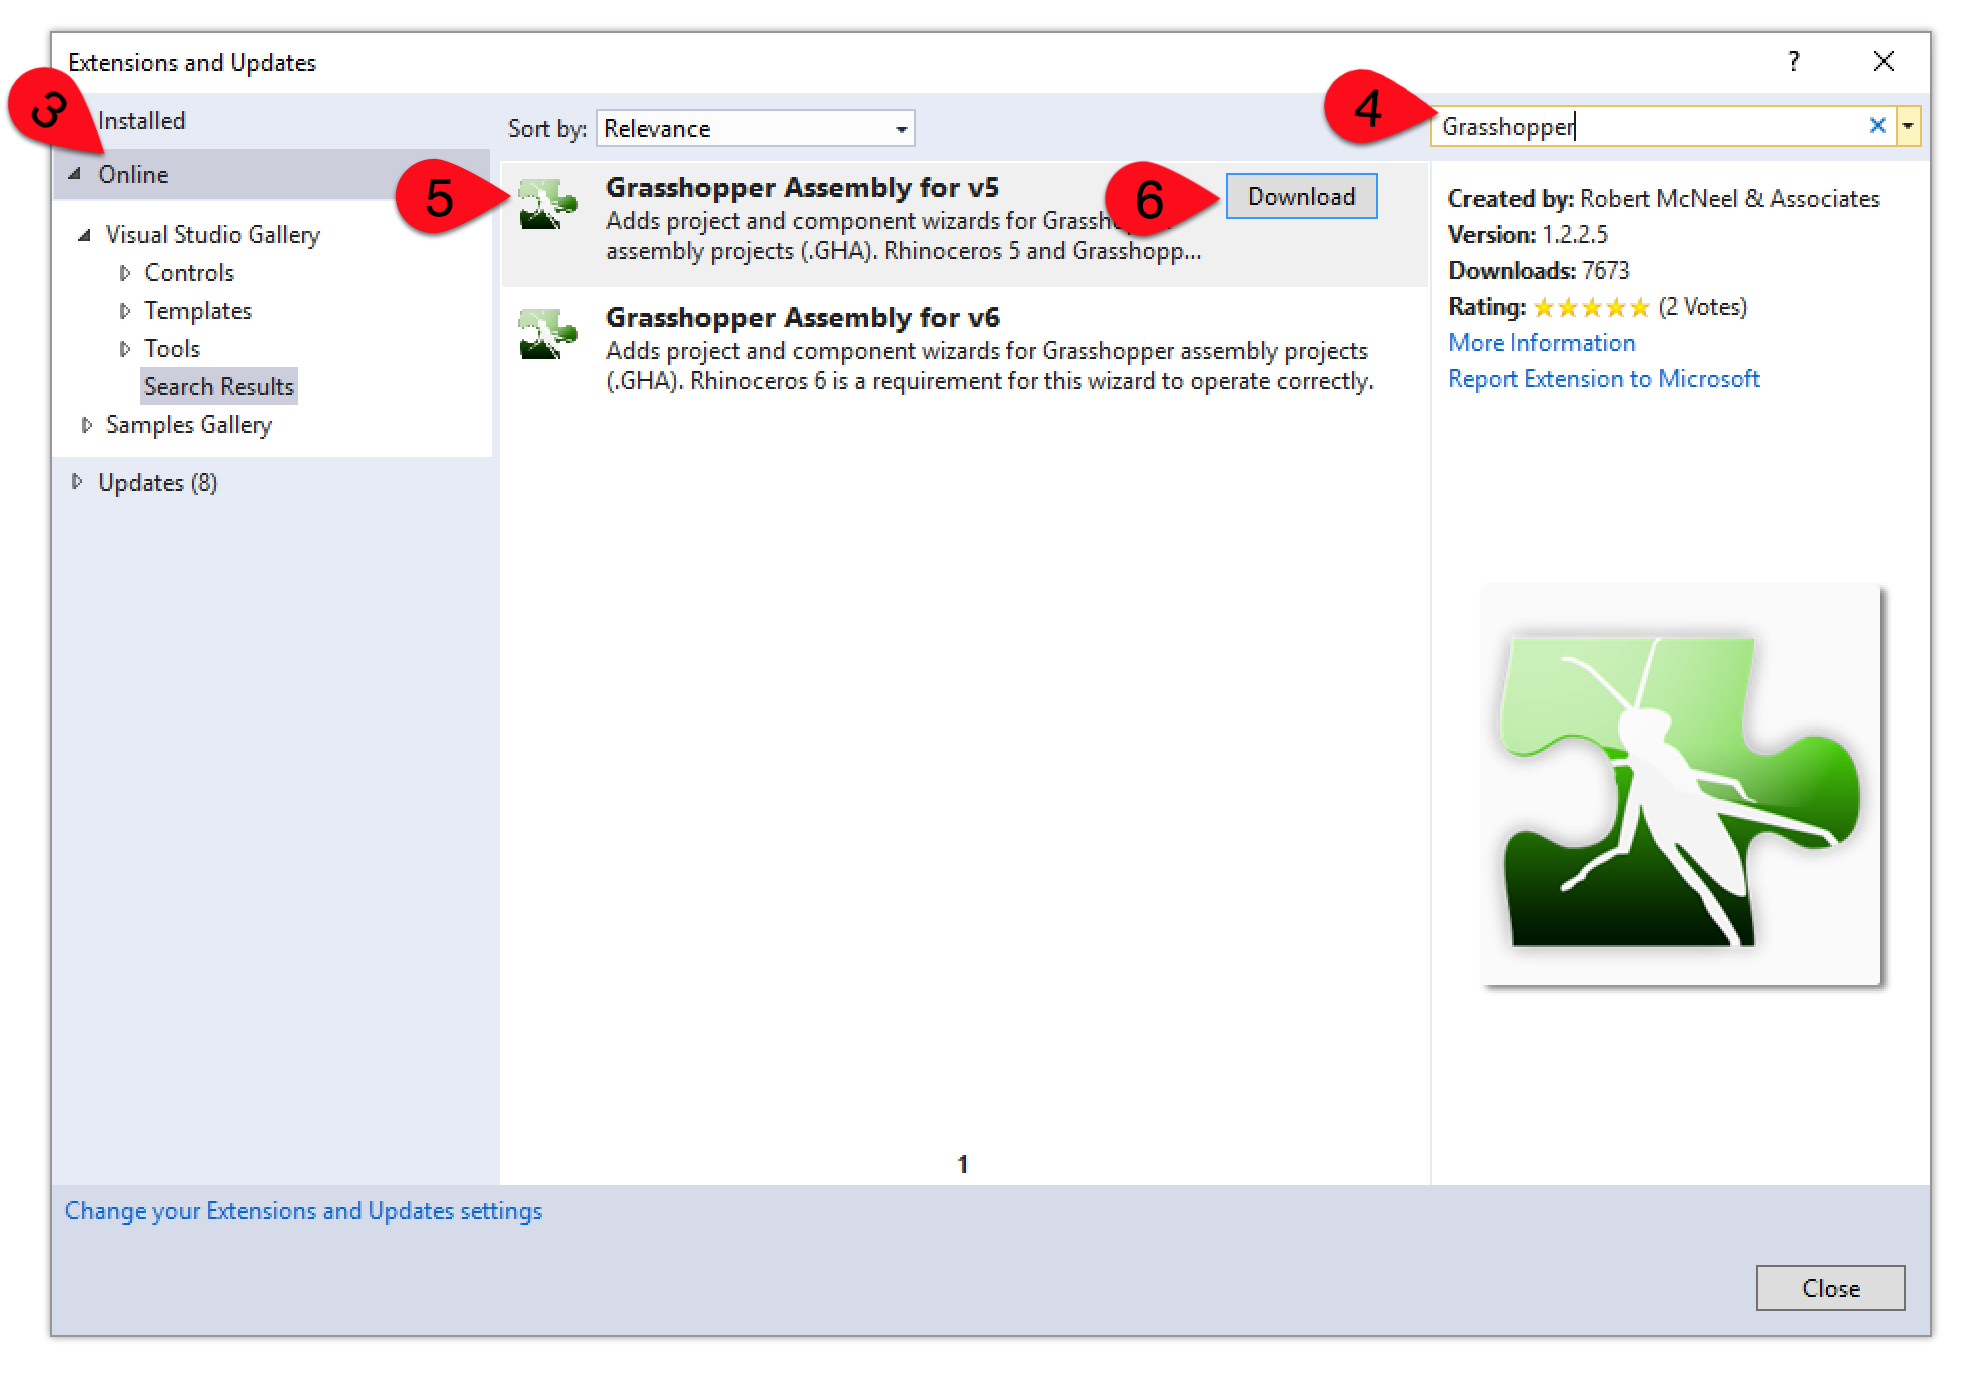
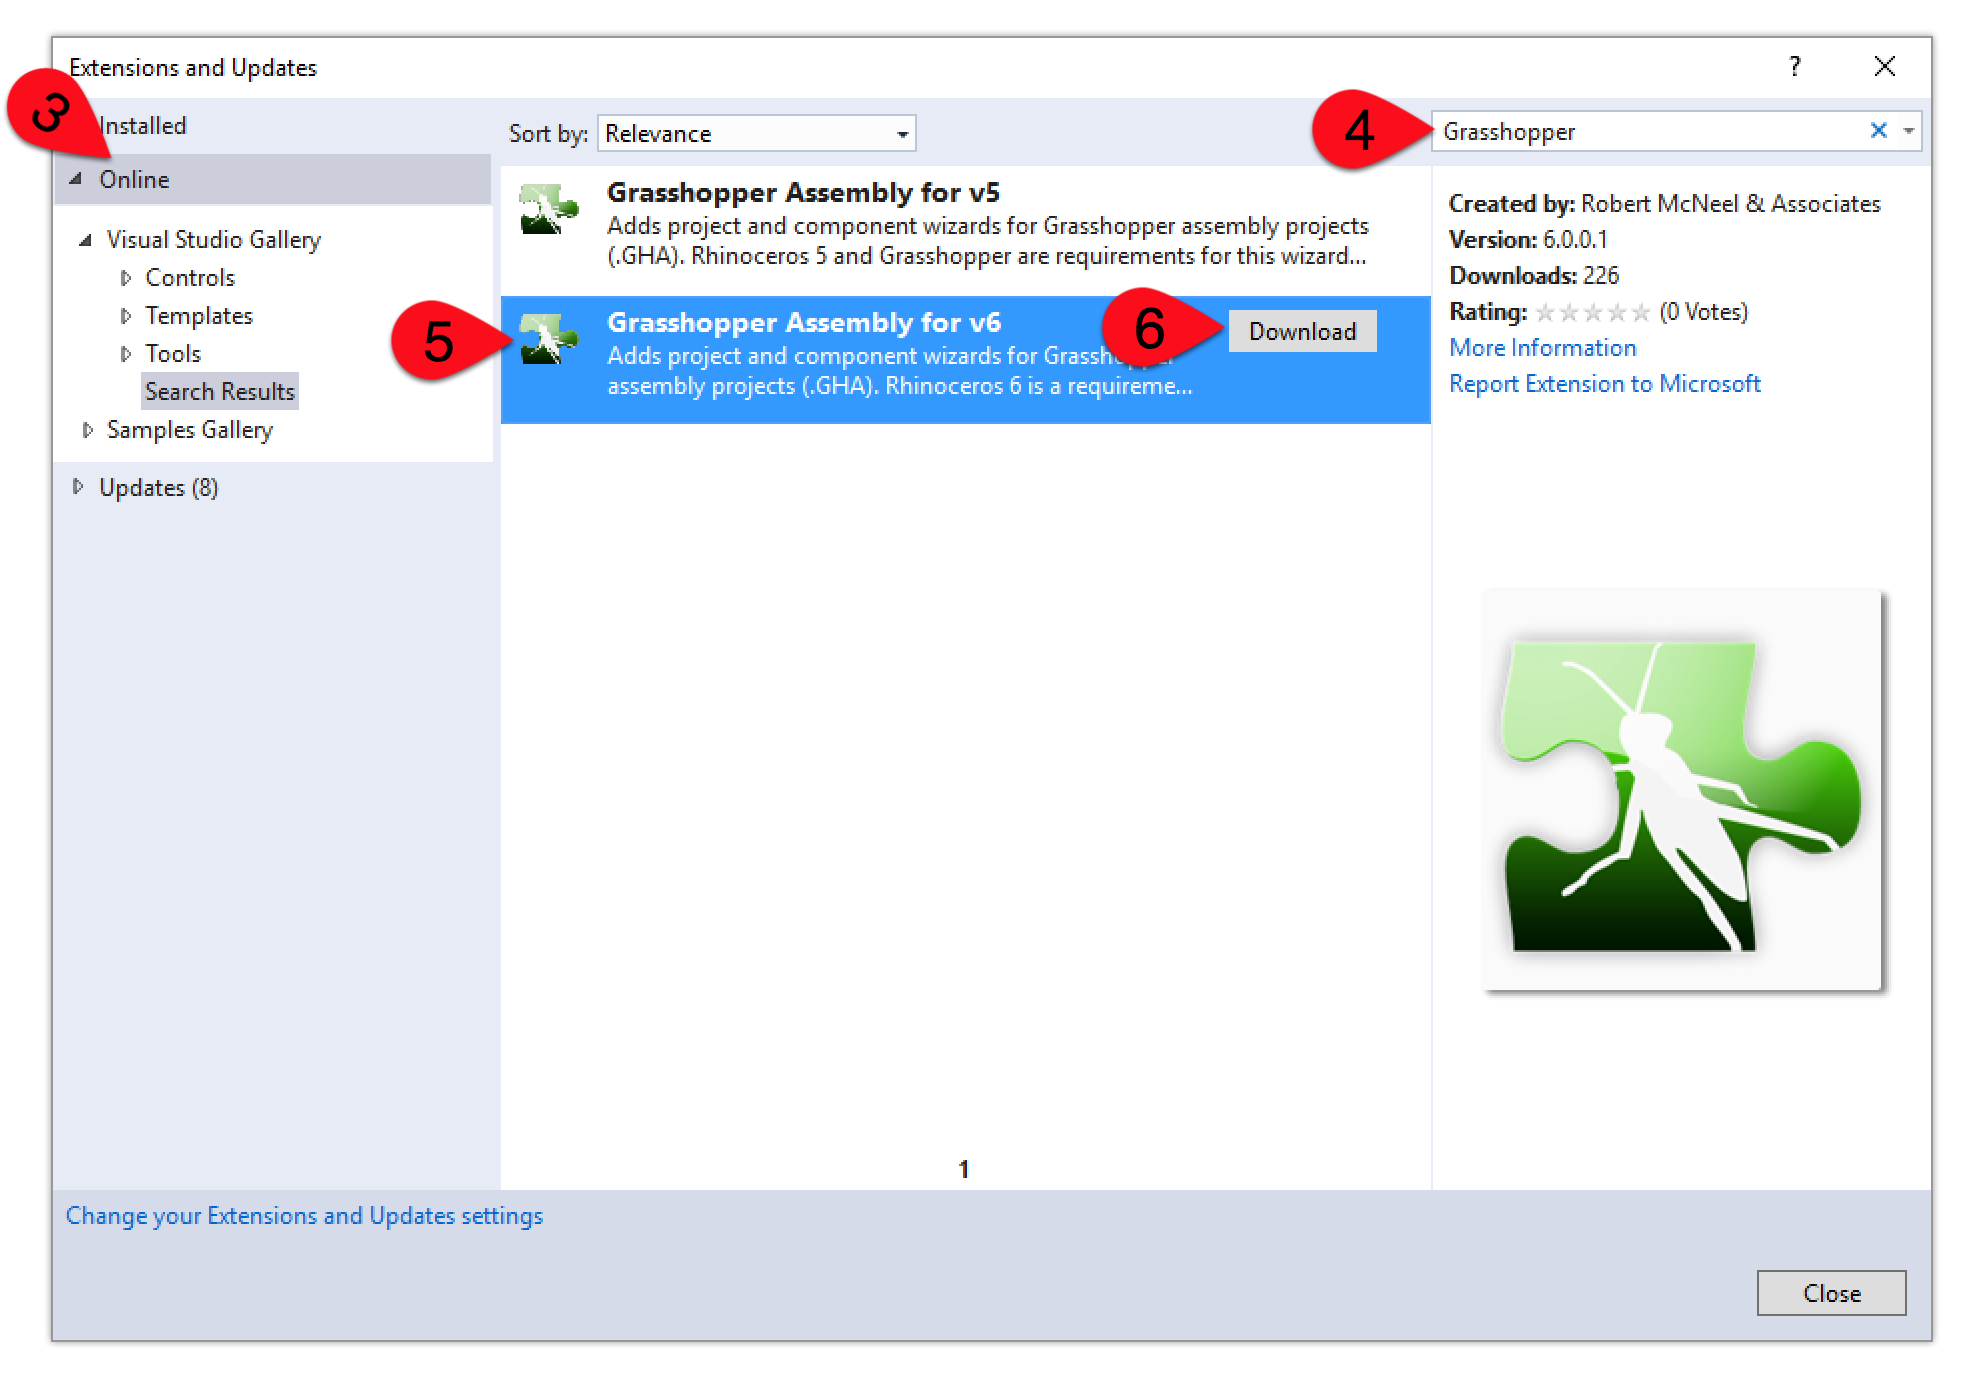
Update Installing Tools (for Windows) for Grasshopper guide with current RhinoWIP information.

diff --git a/_guide_topics/grasshopper/installing_tools_windows.md b/_guide_topics/grasshopper/installing_tools_windows.md
@@ -1,26 +1,80 @@
 ---
 title: Installing Tools (Windows)
-description: This guide has yet to be authored or ported.
+description: This guide covers all the necessary tools required to author custom Grasshopper components on Windows.
 author: dan@mcneel.com
 apis: ['Grasshopper']
 languages: ['C#', 'VB']
 platforms: ['Windows']
 categories: ['Getting Started']
 origin: unset
-order: 2
+order: 1
 keywords: ['developer', 'grasshopper', 'components']
 layout: toc-guide-page
-TODO: 'needs to be written'
 ---
 
 # {{ page.title }}
 
 {{ page.description }}
 
-1. Open *Visual Studio*
-2. From the *Tools* menu, click *Extensions and Updates*
-3. In the Extensions and Updates dialog box, click *Online*
-4. In the Search box in the upper right corner, type "Grasshopper" then press Enter
-5. Download the *Grasshopper Assembly* for the version of Rhino you are targeting
+By the end of this guide, you should have all the tools installed necessary for authoring, building, and debugging custom Grasshopper components in Rhino for Windows.
 
-Also, [Download the Help File](http://s3.amazonaws.com/files.na.mcneel.com/grasshopper/1.0/docs/en/GrasshopperSDK.chm) to learn more.
+## Prerequisites
+
+This guide presumes you have an:
+
+- A PC running Microsoft Windows 7 or later.
+- [RhinoWIP for Windows](https://discourse.mcneel.com/t/welcome-to-serengeti/9612) (current in development)
+
+---
+
+## Install Visual Studio
+
+[Visual Studio](https://www.visualstudio.com/en-us/visual-studio-homepage-vs.aspx) is Microsoft's flagship development platform and Integrated Development Environment (IDE).  Visual Studio now comes in three major "streams": Visual Studio Code[^1], Visual Studio Online[^2], and Visual Studio "proper"[^3].  In order to author custom Grasshopper components, you will need Visual Studio "proper" (Visual Studio Code and Visual Studio Online are not supported).
+
+At the time of this writing, Visual Studio 2015 "proper" comes in [three editions](https://www.visualstudio.com/vs-2015-product-editions): Community, Professional, and Enterprise.  Any of these editions will work. Additionally, [Visual Studio Express 2015 for Windows Desktop](https://www.visualstudio.com/products/visual-studio-express-vs.aspx) will work with more limited debugging support[^4]. Other Express versions, such as Express for Windows, Express for Web or Team Foundation Server 2015 Express, will not work.
+
+*NOTE*: Grasshopper components can be authored in Visual Studio 2010, 2012, 2013, and 2015 both in C# and VB, and included in Ultimate, Professional, Premium, C# Express, Vb Express and Windows Desktop Express (where available).  For the purposes of this guide, we will presume you are using Visual Studio 2015 Community Edition.
+
+#### Step-by-Step
+
+1. **[Visual Studio 2015 Community Edition](https://www.visualstudio.com/vs-2015-product-editions)** is free from Microsoft for students, open-source contributors, and small teams. [Details here](https://www.visualstudio.com/en-us/support/legal/mt171547).  Click the **Community** button to download the installer.
+1. Run the **Visual Studio installer** you downloaded from Microsoft, in this case ***vs_community.exe***.
+1. Follow the onscreen prompts to install Visual Studio.  It is recommended that you install the **Typical** installation.  Depending on your internet connection, this can take minutes or hours.  When successfully installed, click the **Launch** button.
+
+---
+
+## Grasshopper Assembly
+
+The [Grasshopper Assembly templates](https://visualstudiogallery.msdn.microsoft.com/dc7014d0-c37f-4148-ba47-5d537f6c5f22) contains wizards to get you started creating components quickly.
+
+#### Step-by-Step
+
+1. Launch **Visual Studio**.
+1. Navigate to **Tools** > **Extensions and Updates...**
+1. In the left-hand sidebar, expand the **Online** section, then select the **Visual Studio Gallery** entry...
+![Extensions and Updates]({{ site.baseurl }}/images/installing_tools_windows_grasshopper_01.png)
+1. In the **Search** field, search for *Grasshopper*.  This filters the gallery list below.
+1. Find **Grasshopper Assembly for v6** and select it.
+1. Click the **Download** button.  The extension installation should begin.
+1. You must **Accept** the license agreement by clicking on the **Install** button.
+1. If the installation is successful, you will be redirected to this developer website and the extension should appear in your list of **Installed** extensions.
+
+---
+
+## Next Steps
+
+**Congratulations!**  You have the tools to build custom Grasshopper components for Grasshopper for Windows.  **Now what?**
+
+Check out the [Your First Component (Windows)]({{ site.baseurl }}/guides/grasshopper/your_first_component_windows) guide for instructions building - your guessed it - your first component.
+
+---
+
+## Footnotes
+
+[^1]: Visual Studio Code is Microsoft's cross-platform source code editor for Windows, Linux, and OS X.  At the time of this writing, Visual Studio code does not yet support the features required to author Grasshopper components
+
+[^2]: Visual Studio Online is Microsoft's online counterpart to the desktop edition of Visual Studio (referred to as Visual Studio "proper" above).  We have not tested using Visual Studio Online to debug Grasshopper components as having a copy of Rhino and Grasshopper running would prove logistically difficult.
+
+[^3]: Visual Studio "proper" is the desktop version of Visual Studio...we are only attaching the "proper" epithet to distinguish it from the Visual Studio Code and Visual Studio Online.  In subsequent guides this will be referred to as simply "Visual Studio."
+
+[^4]: Visual Studio Express 2015 for Windows **Desktop** (also named "Express for Desktop" on some pages) offers a development platform that has a less strict licensing agreement policy than the Community edition. Please refer to the EULA for complete details, available during installation. In this edition, debugging of Rhino and Grasshopper can be started, but the location of the Rhino executable (rhino.exe), usually available in the Project property page, in the Debug tab, cannot be changed in the UI. After Wizard completion, the location of the Rhino executable can only be edited in the XML of the resulting **.csproj** file, in the main folder of the solution.
